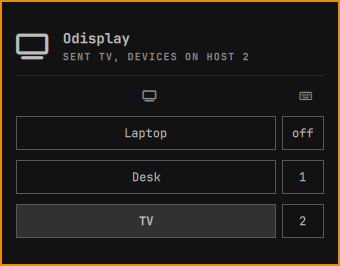
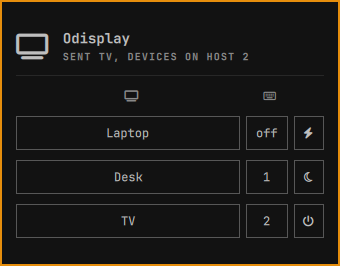
One lookup for the action, a preview that shows it, and no em dashes
powerFor and powerChoiceFor were two passes over the same list, and the second
one's fallback could not be reached: the first only ever returned a value it had
already found among the choices. One function returns the entry, which is what
the button needs anyway, and cyclePower steps from it the way cycleHost does.

preview.png was older than the button: three rows and no third control. It is
rendered again with all three states showing, at the size it already was.

The status tooltip loses its em dash, and the draft note for issue #4 loses the
three in its code samples.

diff --git a/Panel.qml b/Panel.qml
@@ -173,37 +173,25 @@ Panel {
         return "0"
     }
 
-    // The action this input is set to, with anything off the list read as
-    // nothing. A stored value that is not one of the three does nothing, which
-    // is what odisplay would do with it too.
-    function powerFor(key) {
+    // The action this input is set to, as the entry that names it.
+    //
+    // An input with nothing set, or with a value that is not one of the three,
+    // reads as the first entry, which is doing nothing. That is what odisplay
+    // would do with a value it does not know, so the two agree.
+    function powerChoiceFor(key) {
         for (var index = 0; index < root.inputs.length; index++) {
             if (root.inputs[index].key !== key) continue
-            var chosen = String(root.inputs[index].power === undefined ? "" : root.inputs[index].power)
+            var stored = String(root.inputs[index].power === undefined ? "" : root.inputs[index].power)
             for (var c = 0; c < root.powerChoices.length; c++) {
-                if (root.powerChoices[c].value === chosen) return chosen
+                if (root.powerChoices[c].value === stored) return root.powerChoices[c]
             }
-            return ""
-        }
-        return ""
-    }
-
-    // What the button shows and says for the action in force.
-    function powerChoiceFor(key) {
-        var current = root.powerFor(key)
-        for (var index = 0; index < root.powerChoices.length; index++) {
-            if (root.powerChoices[index].value === current) return root.powerChoices[index]
         }
         return root.powerChoices[0]
     }
 
     function cyclePower(key) {
         if (root.busy) return
-        var current = root.powerFor(key)
-        var at = 0
-        for (var index = 0; index < root.powerChoices.length; index++) {
-            if (root.powerChoices[index].value === current) at = index
-        }
+        var at = root.powerChoices.indexOf(root.powerChoiceFor(key))
         var next = root.powerChoices[(at + 1) % root.powerChoices.length].value
         // Shown straight away so the glyph answers the click; odisplay's own
         // answer follows and wins if the two ever disagree.
@@ -792,7 +780,7 @@ Panel {
         text: "\uf26c"
         // The bar renders this on hover, which is the only place the right-click
         // picker is advertised.
-        tooltipText: "Odisplay — right-click for the display number"
+        tooltipText: "Odisplay: right-click for the display number"
         // Left opens the panel, right the display picker. The button reports which
         // button was pressed, so one widget can carry both without a second target.
         onPressed: function(button) {

diff --git a/README.md b/README.md
@@ -263,24 +263,24 @@ first device that fails, so the keyboard and mouse never end up split across two
 
 The third button on each row is what this machine does with itself once the
 switch has sent the keyboard and mouse away. It steps through three states, and
-the tooltip says which:
+the tooltip says which. The same setting can be written by hand:
 
-| Glyph | | |
-|---|---|---|
-| bolt | stays on | nothing happens, and the default |
-| crescent | sleeps | `systemctl suspend` |
-| power symbol | shuts down | `systemctl poweroff` |
+| Glyph | State | `power` | What runs |
+|---|---|---|---|
+| bolt | stays on | `none` | nothing, and the default |
+| crescent | sleeps | `sleep` | `systemctl suspend` |
+| power symbol | shuts down | `shutdown` | `systemctl poweroff` |
 
 It runs last, after the monitor and after every device, and only if all of them
 succeeded. Sleeping first would leave the display never moved and the keyboard
 and mouse still here, which is the ordering this panel exists to keep.
 
-A failure is exit 5 rather than 3, because it is the only failure where your
-keyboard is where you wanted it. The panel says so in those words instead of
-sending you to look for a keyboard that is not lost.
+A failed action exits 5 rather than 3, because it is the one failure where your
+keyboard and mouse are where you wanted them. Exit 3 means the keyboard did not
+follow, and the panel says that instead.
 
-Both commands go through polkit and are allowed for the user at the console, so
-neither needs sudo here.
+Both commands go through polkit, which allows them for the user at the console,
+so neither needs sudo here.
 
 The devices are sent in the order `devices` lists them, and the mouse is first by default. The
 order decides what a failure leaves you holding, since the sequence stops at the first one that

diff --git a/ISSUE_4_COMMENT.md b/ISSUE_4_COMMENT.md
@@ -16,7 +16,7 @@ Sleep is usually possible without sudo on both macOS and Linux, but **full shutd
 // macOS sleep, no sudo
 exec.Command("pmset", "sleepnow").Run()
 
-// macOS shutdown — requires sudo/root
+// macOS shutdown: requires sudo/root
 exec.Command("sudo", "shutdown", "-h", "now").Run()
 ```
 
@@ -33,10 +33,10 @@ Behavior depends on the session and distribution:
 On a normal desktop login, `systemd-logind` + PolicyKit often permits the active local user to suspend, reboot, or power off without entering a password. Over SSH, or for another user's session, polkit commonly denies it and you need sudo or a custom polkit rule.
 
 ```go
-// Linux sleep — normally no sudo for an active desktop user
+// Linux sleep: normally no sudo for an active desktop user
 exec.Command("systemctl", "suspend").Run()
 
-// Linux shutdown — may work for active local session, otherwise needs sudo
+// Linux shutdown: may work for an active local session, otherwise needs sudo
 exec.Command("systemctl", "poweroff").Run()
 ```
 
